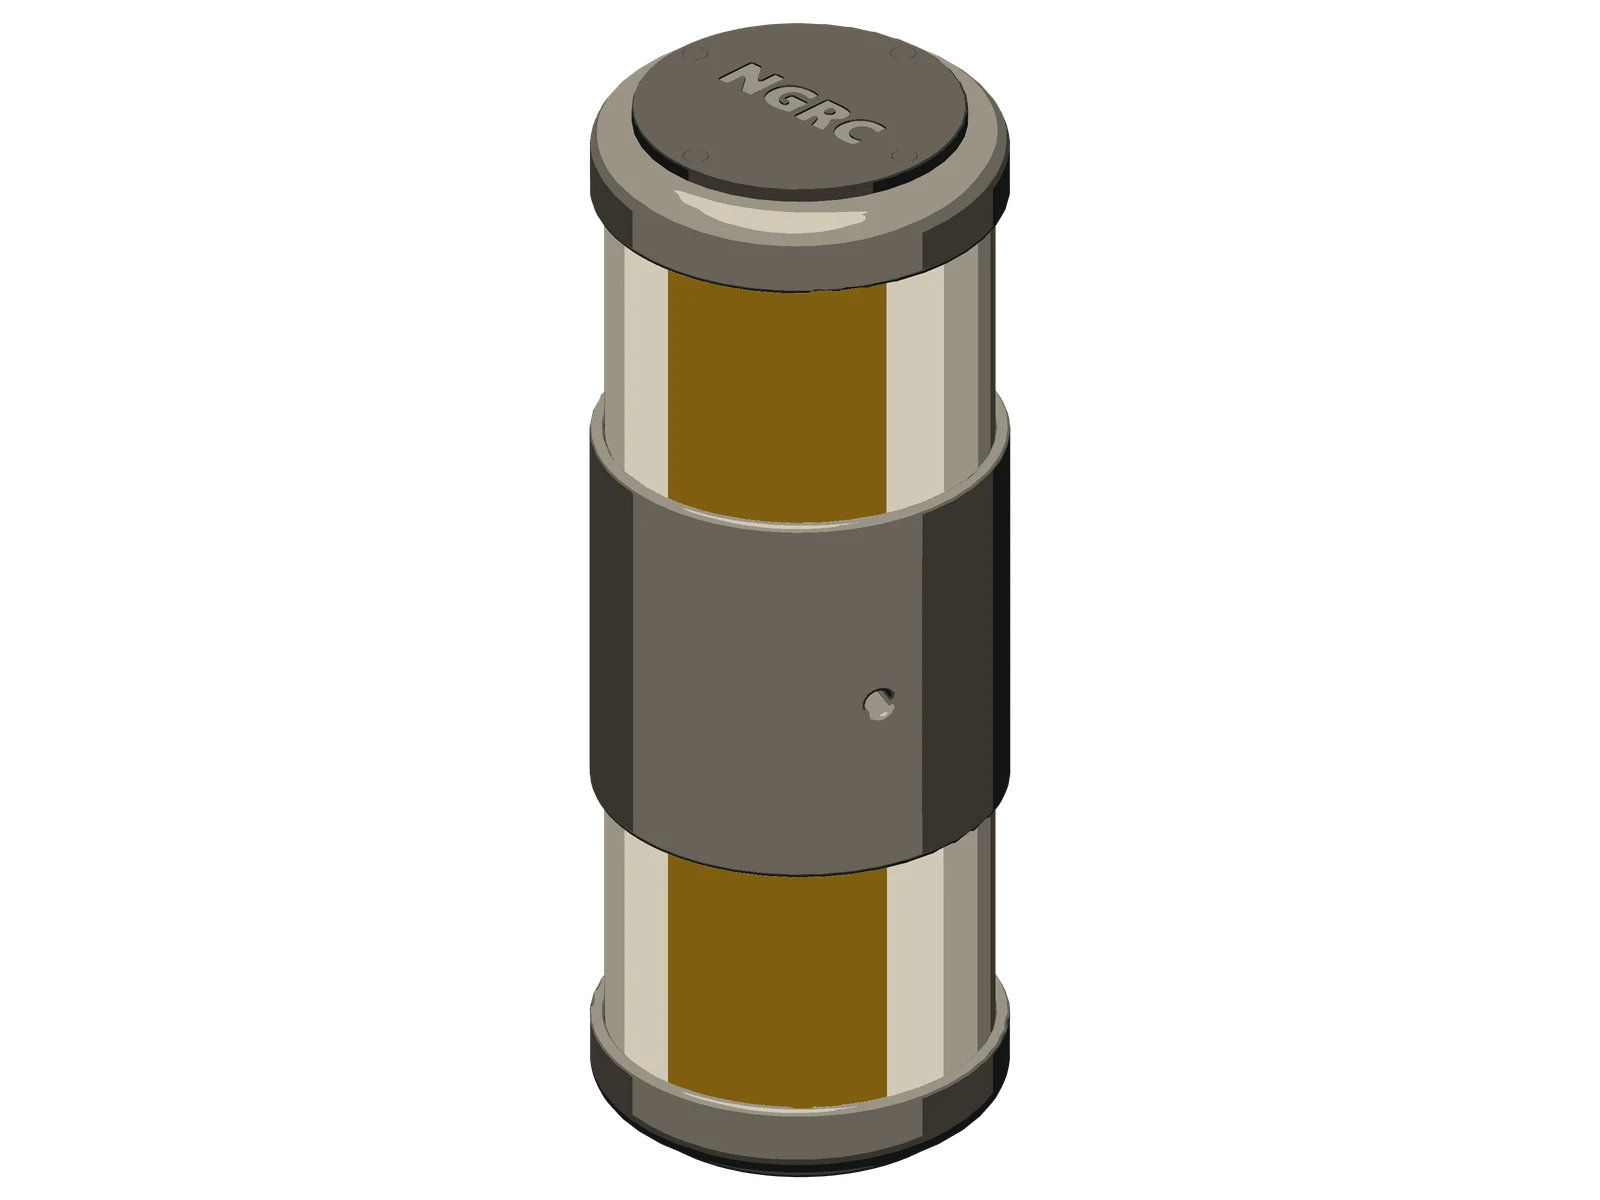
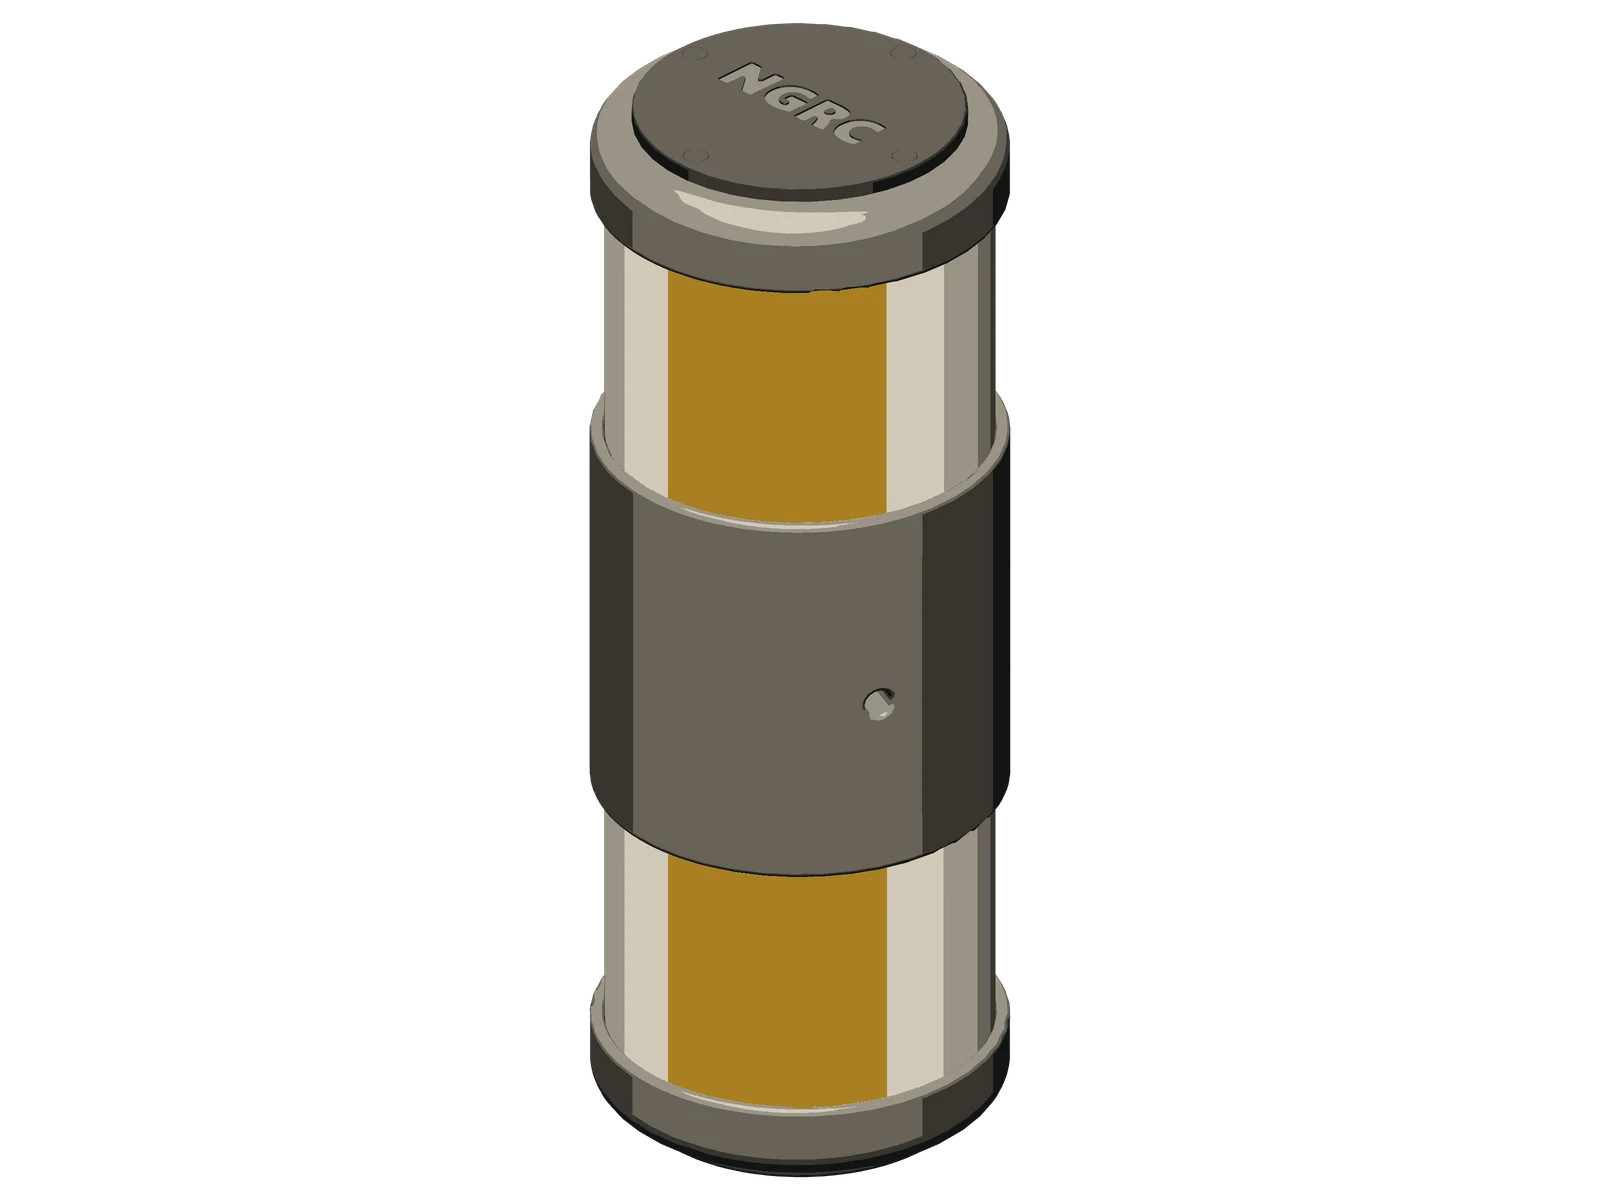
合并 main 的统一强调色 #A97F22：模型展示图重新渲染，3D 金色取 --accent，风格 §2.5 同步
- renders.mjs 的金色改为 #A97F22，四件代表作品重新渲染；快换接头不再是代表作品，撤下其展示图
- 连续色阶的金色规则按统一金色重算对比度：只在色阶 0–20% 和 100% 够 3 : 1

Claude-Session: https://claude.ai/code/session_01RHnTsTuV2TU58onZ5s6z3H

Changed region(s): [[0.4062, 0.7092, 0.5625, 0.925], [0.4062, 0.2158, 0.5625, 0.4625]]

diff --git a/b-Site/assets/stage.js b/b-Site/assets/stage.js
@@ -25,7 +25,7 @@ const STAGGER = 0.35;                          // 外圈零件比内圈早走的
 
 /** 色阶 B 上的 6 档（0/20/40/60/80/100%），sRGB */
 const LEVELS = ["#121414", "#37342D", "#676258", "#9A9486", "#D1C9B7", "#FBFAF7"];
-const ACCENT_FALLBACK = { light: "#7F5E0F", dark: "#D9A441" };
+const ACCENT_FALLBACK = "#A97F22";               // 读不到 --accent 时用（= README 令牌 accent）
 
 const POST_VERT = `varying vec2 vUv; void main() { vUv = uv; gl_Position = vec4(position.xy, 0.0, 1.0); }`;
 const POST_FRAG = `
@@ -210,7 +210,7 @@ export class Stage {
   /** 色阶颜色固定；金色层随主题：浅色主题最浅层、深色主题最深层，取页面的 --accent */
   applyTheme() {
     const dark = document.documentElement.getAttribute("data-theme") === "dark";
-    const accent = getComputedStyle(document.documentElement).getPropertyValue("--accent").trim() || ACCENT_FALLBACK[dark ? "dark" : "light"];
+    const accent = getComputedStyle(document.documentElement).getPropertyValue("--accent").trim() || ACCENT_FALLBACK;
     const pal = this.post.uniforms.pal.value;
     // 后处理直接输出 sRGB 值，所以存 sRGB 分量（Color.set 默认会转成线性）
     LEVELS.forEach((h, i) => pal[i].set(h).convertLinearToSRGB());

diff --git a/z-OneHistoryID/网站风格.md b/z-OneHistoryID/网站风格.md
@@ -108,8 +108,8 @@
 2. **两套主题用同一条色阶**：图片不随主题反相、不换色阶。深色主题里浅色图片就是一块亮面，这是对的，相当于摊在桌上的一张纸。
 3. **金色强调**：
    - 原图里的彩色笔迹、标注、指示（红笔批注、坐标轴、指示灯等）不保留原色，改画成金色；其余一律灰度。
-   - 金色按所在位置的明度选：落在色阶 ≥ 60% 的亮部用浅色主题的 `accent` `#7F5E0F`，落在暗部用深色主题的 `accent` `#D9A441`（同 §2.4 `accent-on-ink` 的道理：金色跟着底色走，而不是跟着页面主题走）。
-   - 两种金在 40–70% 的中灰上对比度都不到 3 : 1。金色标注不要压在中灰上，要么挪位置，要么在标注下垫一块 `canvas` 或 `ink` 的小底。
+   - 金色用 `accent` `#A97F22`（2026-11-05 起深浅同值）。
+   - 它对色阶 B 只在两端够 3 : 1：0–20% 的暗部（5.1–3.4 : 1）和 100% 的纸白（3.5 : 1）；30–90% 都不够，最差在 50–60% 一带（约 1.2 : 1）。金色标注不要压在中间这一段上，要么挪位置，要么在标注下垫一块 `canvas` 或 `ink` 的小底。
    - 一张图里的金色只标一类东西（例如只标关键零件，或只标批注），面积要小。和页面一样，金色是编号级的点，不是填色。
 4. **形状**：沿用 §3.6，圆角 12，1 px `hairline-2` 描边；不加投影、不加滤镜叠加的颗粒和暗角。
 5. **处理位置**：在构建时把图片处理成灰度色阶写进生成产物（`assets/covers/` 等），而不是在浏览器里用 CSS `filter` 实时算，这样金色标注可以逐张修，也不会在加载时闪出原色。实现另做。
@@ -130,19 +130,19 @@
 | 色阶 B 位置 | 0% | 20% | 40% | 60% | 80% | 100% |
 | 颜色 | `#121414` | `#37342D` | `#676258` | `#9A9486` | `#D1C9B7` | `#FBFAF7` |
 
-4. **金色层**：和页面底色相同的那一层换成金色，其余五层不变。所以展示图分深浅两版，跟着主题切换（同字标的做法）：
+4. **金色层**：和页面底色相同的那一层换成金色，其余五层不变。金色深浅同值，但换的是不同的层，所以展示图仍分深浅两版，跟着主题切换（同字标的做法）：
 
 | 页面主题 | 换成金色的层 | 金色 |
 |---|---|---|
-| 浅色（底色 `#FBFAF7`） | 第 6 层（最浅） | 浅色 `accent` `#7F5E0F` |
-| 深色（底色 `#121414`） | 第 1 层（最深） | 深色 `accent` `#D9A441` |
+| 浅色（底色 `#FBFAF7`） | 第 6 层（最浅） | `accent` `#A97F22` |
+| 深色（底色 `#121414`） | 第 1 层（最深） | `accent` `#A97F22` |
 
    - 这样模型上不会有任何一块和页面底色相同，轮廓不会消失，所以不需要底板和描边。
    - 金色层是哪个零件由模型自己的颜色决定。金色面积太大（例如一整面顶板）时，改渲染视角或在 CAD 里调整那个零件的颜色，不要改这条规则。
 5. **形状**：透明底，不加圆角、描边、投影。
 6. **产物**：`b-Site/assets/renders/<编号>-light.webp`、`<编号>-dark.webp`，本机跑 `node b-Code/renders.mjs` 生成后入库。在 `site.config.json` 的 `showcase.renders` 里登记的作品，构建时自动改用这两张图。
 7. **三维动画**（`assets/stage.js`，首屏拆装与模型展示）用同一套规则实时渲染：场景按装配颜色渲染到离屏纹理，后处理按明度分 6 层填色；分层阈值在模型第一次出现时按画面聚类，之后旋转、拆装时阈值不变（面转向光时会换层，这是预期的）。金色层随主题切换，金色直接取页面的 `--accent`。不投影子、不加环境反射。
-8. **金色取值**：静态图和三维动画都用当前主题的 `accent`。改强调色时，三维动画自动跟随；静态图要改 `renders.mjs` 里的 `GOLD` 并重新渲染。
+8. **金色取值**：静态图和三维动画都用 `accent`。改强调色时，三维动画自动跟随；静态图要改 `renders.mjs` 里的 `GOLD` 并重新渲染。
 
 ### 2.6 图标
 
